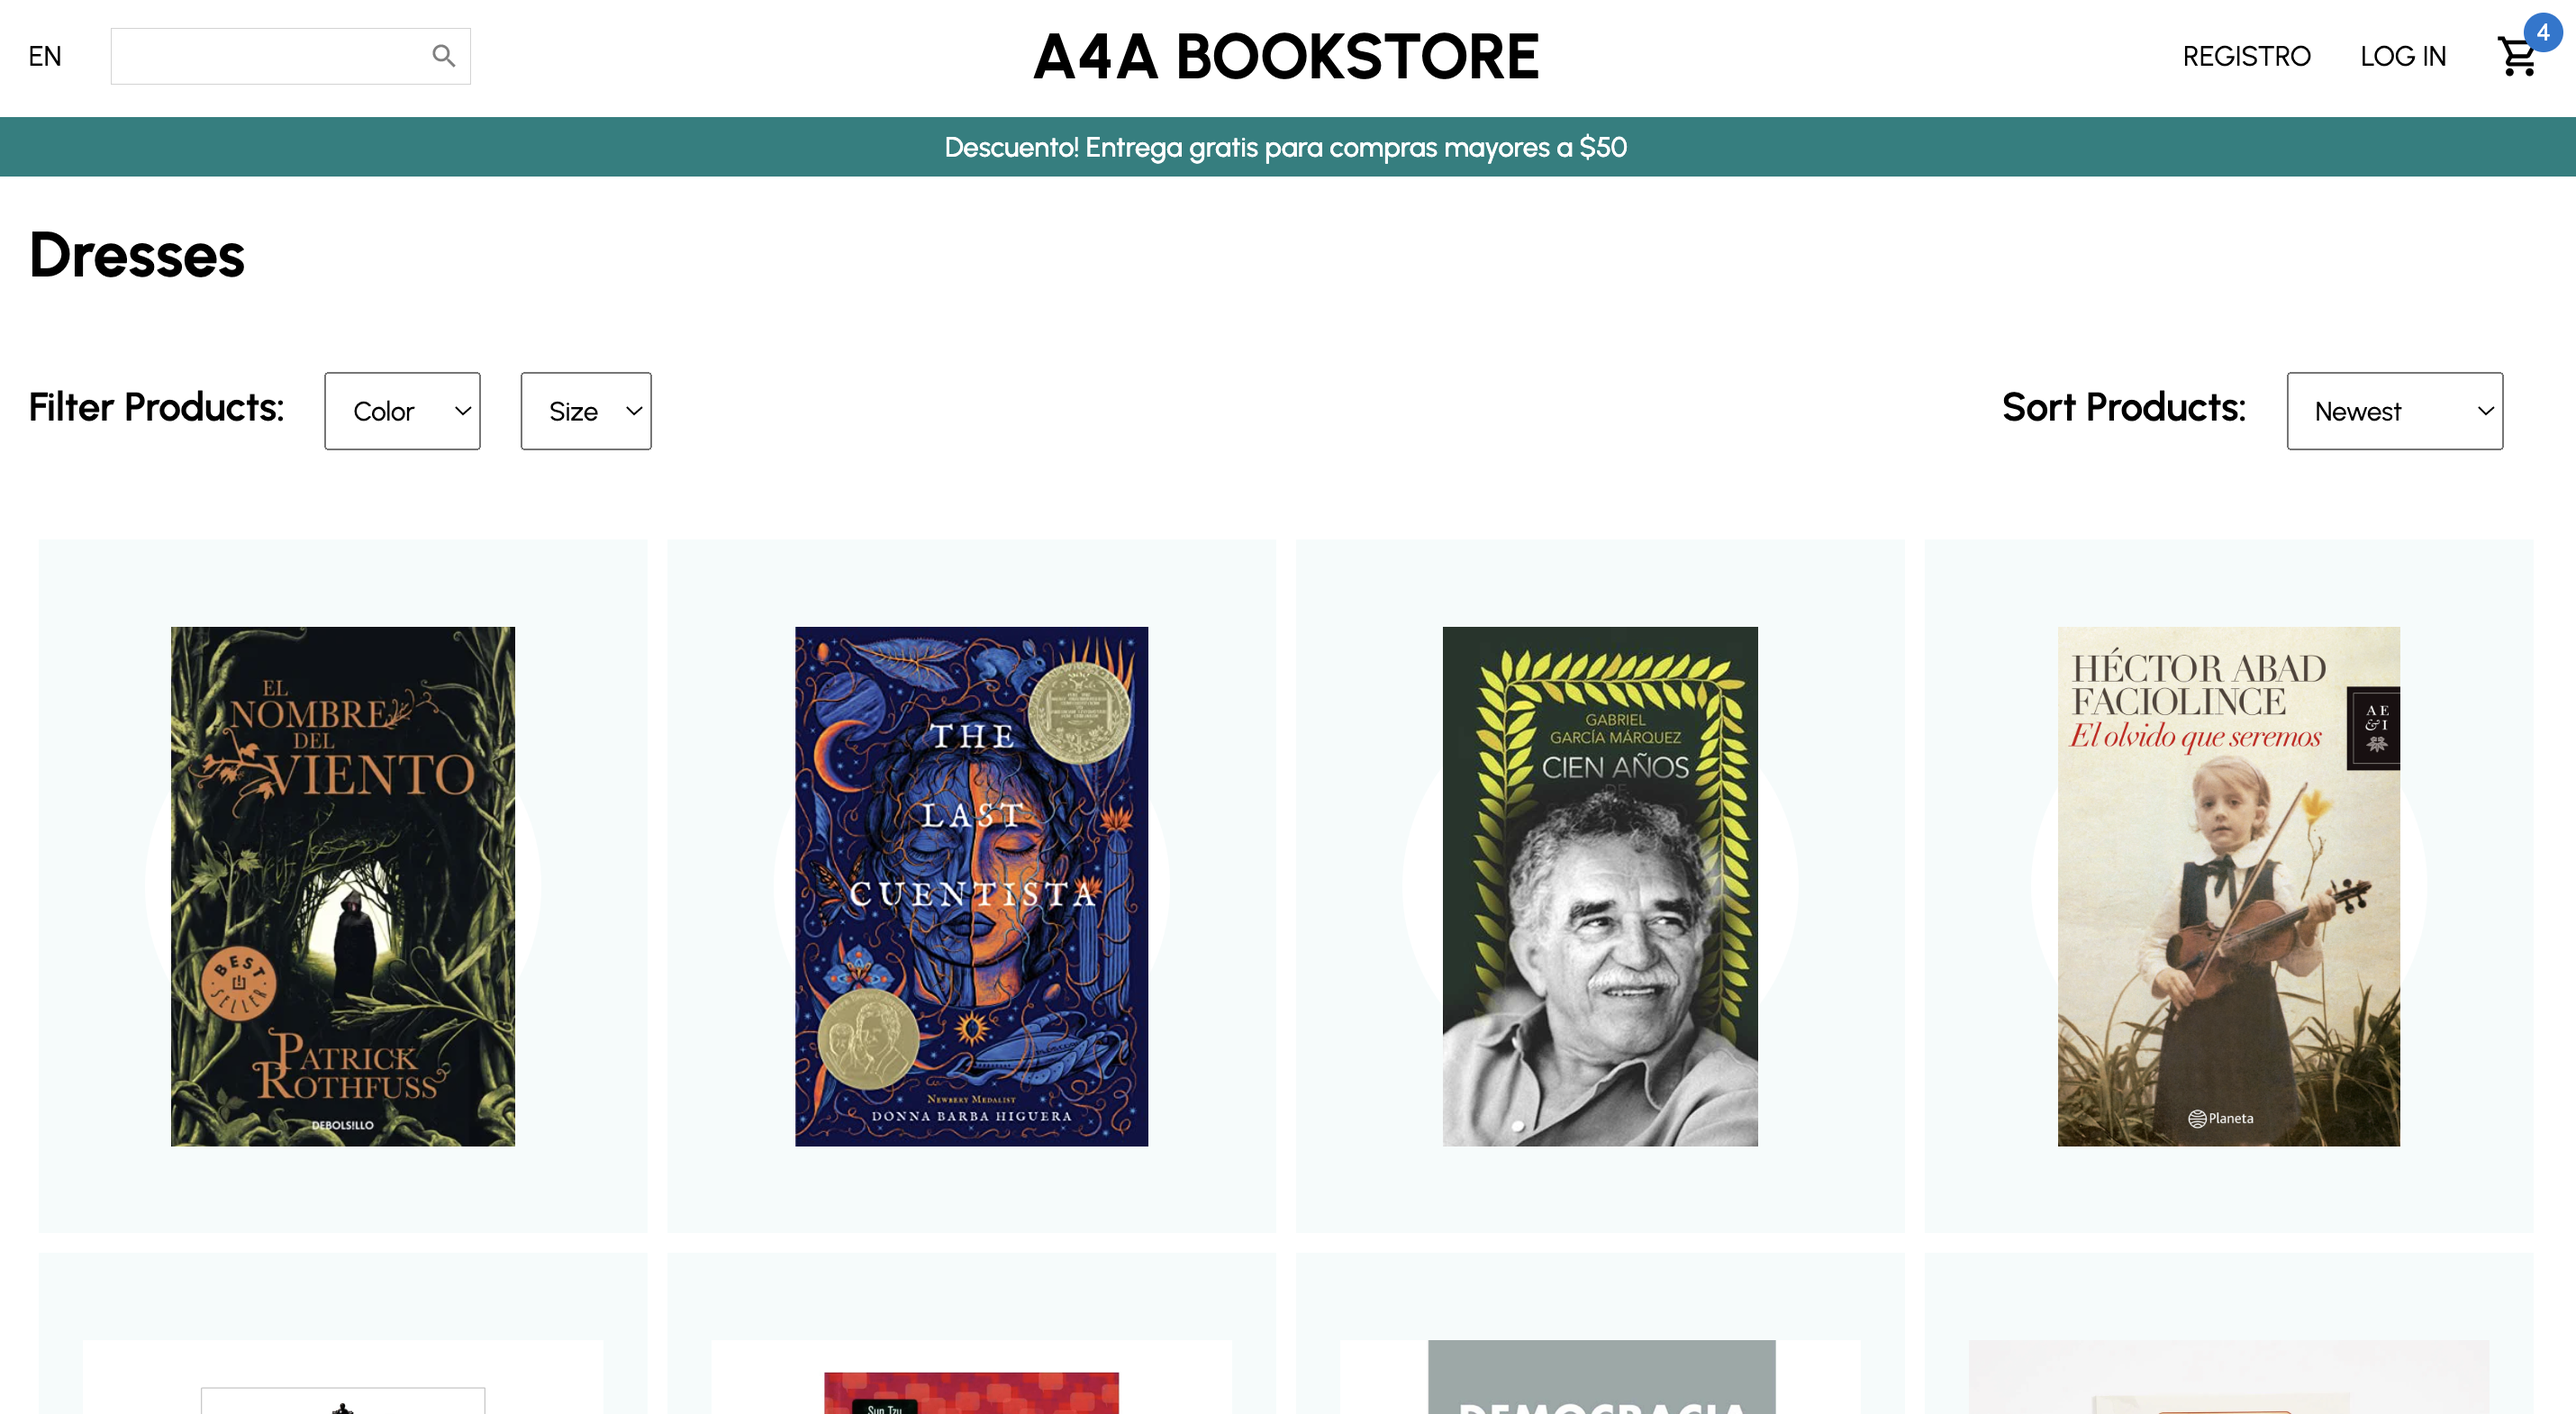
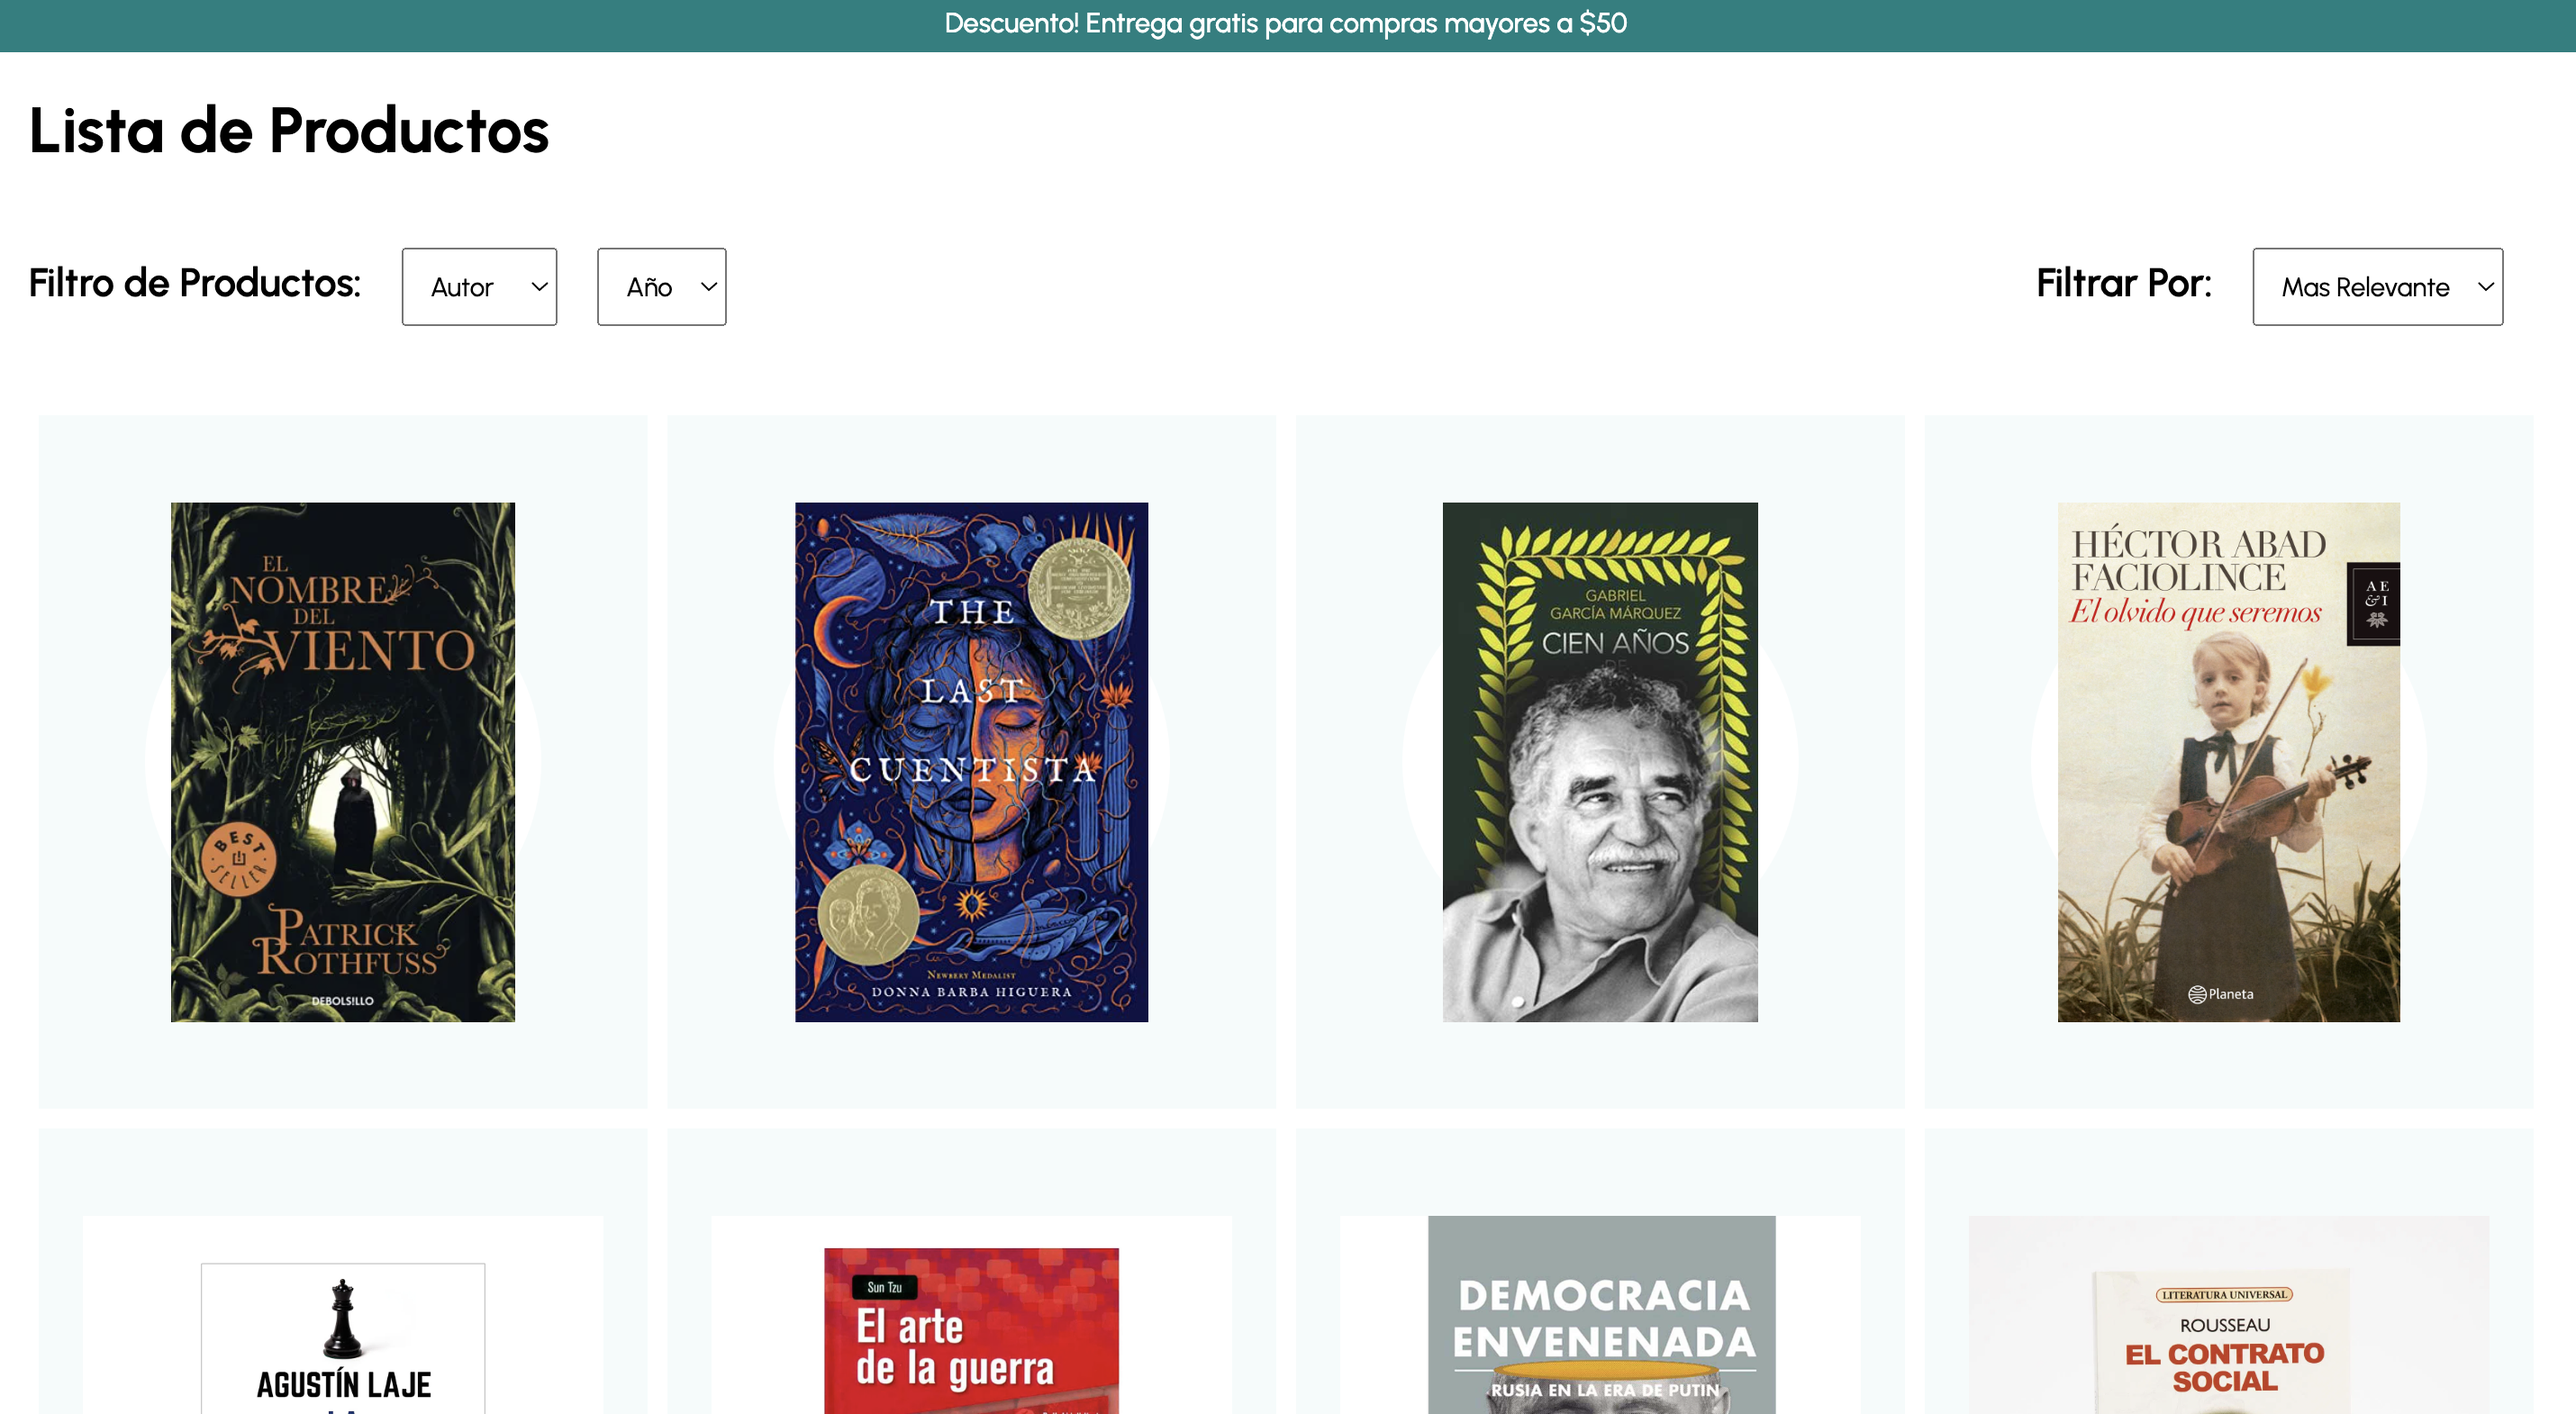
updating Readme

diff --git a/src/pages/ProductList.jsx b/src/pages/ProductList.jsx
@@ -39,13 +39,13 @@ const ProductList = () => {
         <Container>
         <Navbar />
         <Announcement />
-        <Title>Dresses</Title>
+        <Title>Lista de Productos</Title>
         <FilterContainer>
             <Filter>
-            <FilterText>Filter Products:</FilterText>
+            <FilterText>Filtro de Productos:</FilterText>
             <Select>
                 <Option disabled selected>
-                Color
+                Autor
                 </Option>
                 <Option>White</Option>
                 <Option>Black</Option>
@@ -56,7 +56,7 @@ const ProductList = () => {
             </Select>
             <Select>
                 <Option disabled selected>
-                Size
+                Año
                 </Option>
                 <Option>XS</Option>
                 <Option>S</Option>
@@ -66,11 +66,11 @@ const ProductList = () => {
             </Select>
             </Filter>
             <Filter>
-            <FilterText>Sort Products:</FilterText>
+            <FilterText>Filtrar Por:</FilterText>
             <Select>
-                <Option selected>Newest</Option>
-                <Option>Price (asc)</Option>
-                <Option>Price (desc)</Option>
+                <Option selected>Mas Relevante</Option>
+                <Option>Precio (asc)</Option>
+                <Option>Precio (desc)</Option>
             </Select>
             </Filter>
         </FilterContainer>

diff --git a/src/App.jsx b/src/App.jsx
@@ -8,7 +8,7 @@ import Register from "./pages/Register";
 
 function App() {
   return (
-    <Cart/>
+    <ProductList/>
   );
 }
 
